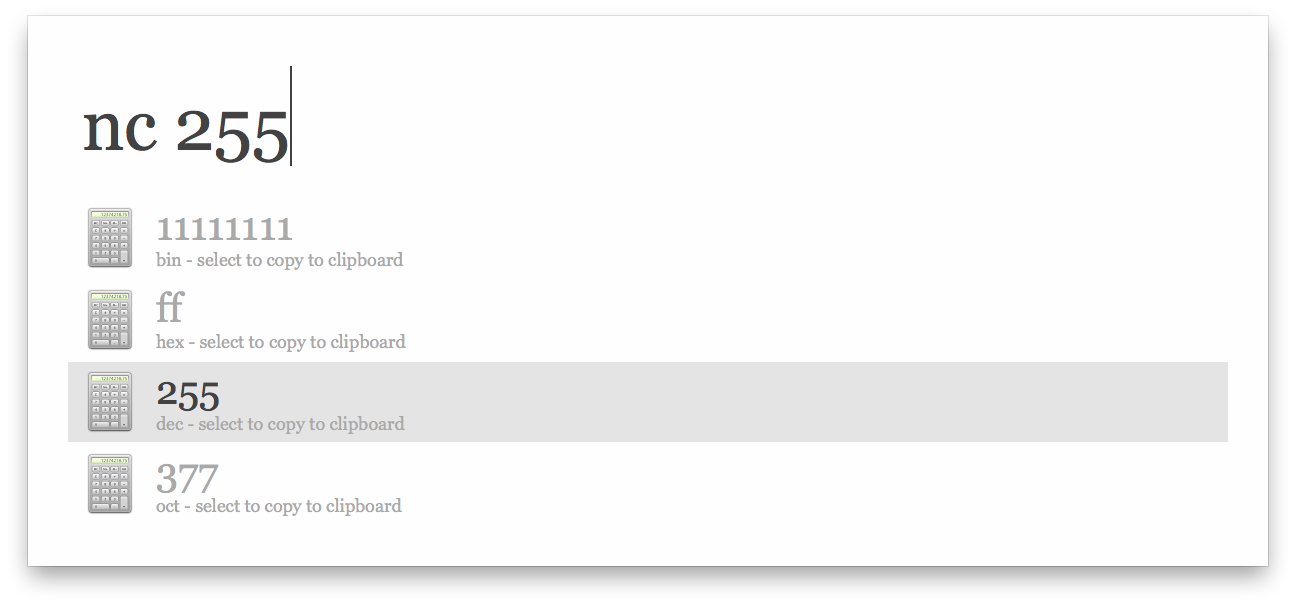
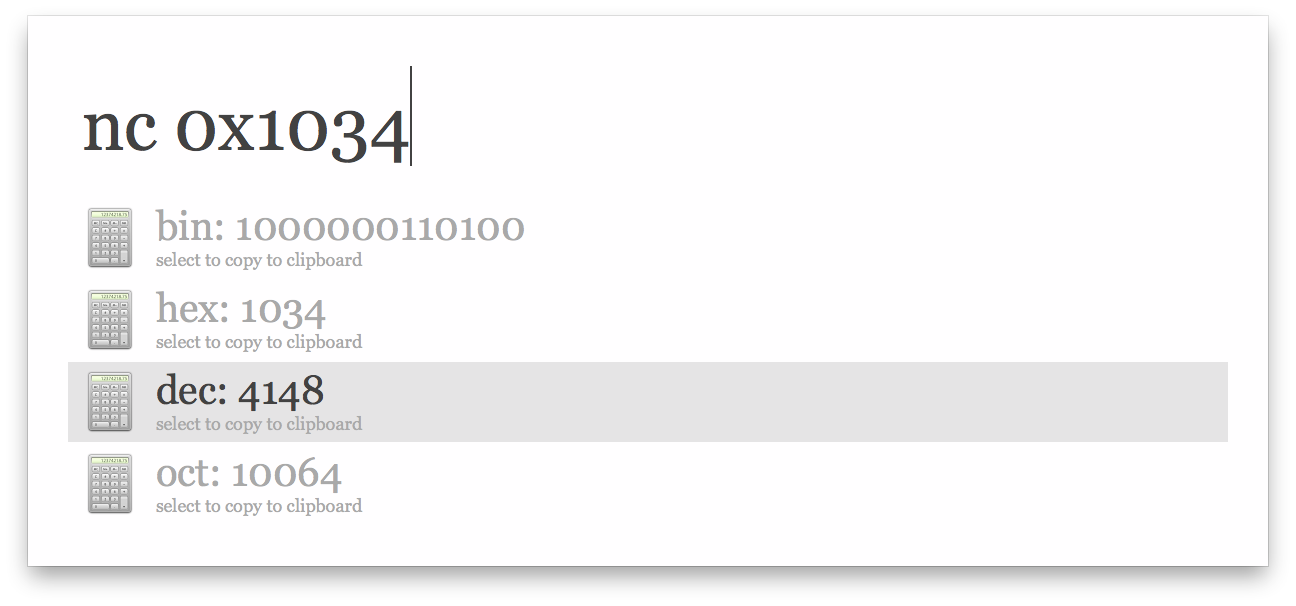
better display

diff --git a/script.rb b/script.rb
@@ -3,8 +3,8 @@ originNumber = {query}
 converted = {:bin => originNumber.to_s(2), :dec => originNumber.to_s(10), :oct => originNumber.to_s(8), :hex => originNumber.to_s(16)}.map do |k, v|
   """
     <item uid=\"#{k}\" arg=\"#{v}\">
-      <title>#{v}</title>
-      <subtitle>#{k} - select to copy to clipboard</subtitle>
+      <title>#{k}: #{v}</title>
+      <subtitle>select to copy to clipboard</subtitle>
       <icon type=\"fileicon\">/Applications/Calculator.app</icon>
     </item>
   """

diff --git a/readme.md b/readme.md
@@ -16,5 +16,3 @@ Select an item to copy convert result to your clipboard.
 #### Screenshot
 
 ![Screenshot 1](screenshot1.png)
-
-![Screenshot 2](screenshot2.png)
